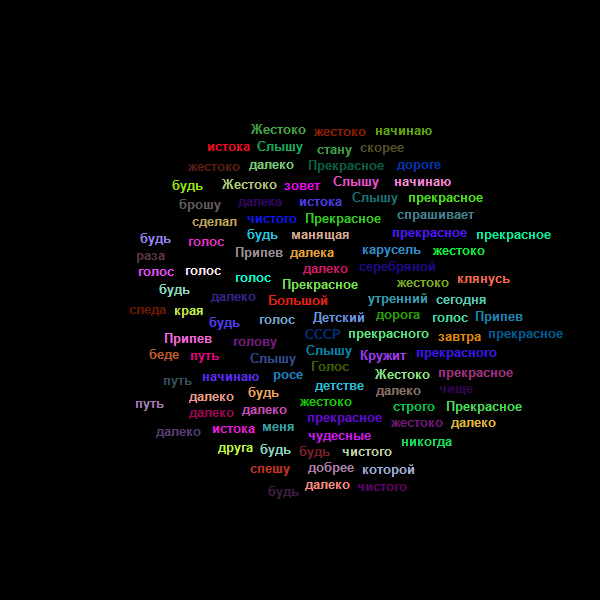
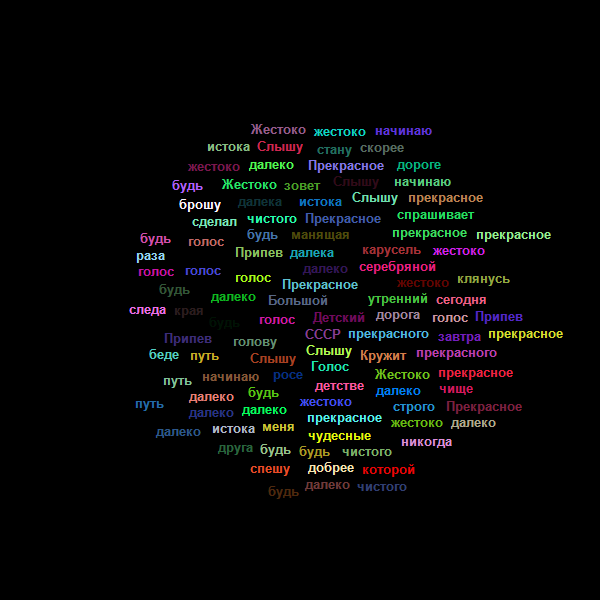
added LowerCaseWordConverter

Changed region(s): [[0.21, 0.21, 0.93, 0.84], [0.21, 0.66, 0.27, 0.69]]

diff --git a/TagsCloudVisualization/Program.cs b/TagsCloudVisualization/Program.cs
@@ -3,7 +3,6 @@ using System.Drawing;
 using System.Drawing.Imaging;
 using Autofac;
 using TagsCloudVisualization.CloudPainters;
-using TagsCloudVisualization.Layouters;
 using TagsCloudVisualization.TextFilters;
 using TagsCloudVisualization.TextPreprocessing;
 using TagsCloudVisualization.TextReaders;
@@ -16,39 +15,25 @@ namespace TagsCloudVisualization
     {
         public static void Main()
         {
-            var imageOptions = new VisualisingOptions(new Font("Arial", 10, FontStyle.Bold), 
+            var imageOptions = new VisualisingOptions(new Font("Arial", 12, FontStyle.Bold), 
                 new Size(600, 600), Color.Black, Color.Pink);
             var textName = "2.txt";
-            var imageName = "00";
-
-            var container = GetContainer(imageOptions.Font, imageOptions.ImageSize, imageOptions.BackgroundColor,
-                imageOptions.TextColor);
-            var creator = container.Resolve<CloudCreator>();
-            var cloud = creator.GetCloud(imageOptions.BackgroundColor, imageOptions.TextColor, imageOptions.Font,
-                imageOptions.ImageSize, textName);
+            var imageName = "01";
+            
+            var cloudCreator = GetContainer().Resolve<CloudCreator>();
+            var cloud = cloudCreator.GetCloud(imageOptions, textName);
             ImageSaver.SaveImageToDefaultDirectory(imageName, cloud, ImageFormat.Png);
         }
 
-        private static IContainer GetContainer(Font font, Size imageSize,
-            Color backgroundColor, Color textColor)
+        private static IContainer GetContainer()
         {
-            var center = new Point(imageSize.Width / 2, imageSize.Height / 2);
-
             var builder = new ContainerBuilder();
-            builder.Register(f => font).As<Font>();
-            builder.Register(s => imageSize).As<Size>();
-            builder.RegisterType<Spiral>().AsSelf().WithParameter("center", center);
             builder.RegisterType<MultiColorCloudPainter>().As<CloudPainter>();
             builder.RegisterType<ITextFilter>().AsImplementedInterfaces();
             builder.RegisterType<LowerCaseWordConverter>().AsSelf();
             builder.Register(f => new List<IWordConverter> {new LowerCaseWordConverter()});
             builder.Register(f => new List<ITextFilter> {new ShortWordsFilter(3)})
                 .As<IEnumerable<ITextFilter>>();
-            builder.Register(p => center).As<Point>();
-            builder.RegisterType<CircularCloudLayouter>().As<ILayouter>();
-            builder.RegisterType<VisualisingOptions>().AsSelf().WithParameter("backgroundColor", backgroundColor)
-                .WithParameter("textColor", textColor);
-            builder.RegisterType<TagCloudVisualizer>().AsSelf();
             builder.RegisterType<TxtReader>().As<ITextReader>();
             builder.RegisterType<WordsProvider>().AsSelf();
             builder.RegisterType<WordPreprocessor>().AsSelf();

diff --git a/TagsCloudVisualization/CloudCreator.cs b/TagsCloudVisualization/CloudCreator.cs
@@ -18,27 +18,26 @@ namespace TagsCloudVisualization
         private readonly ITextReader textReader;
         private readonly WordsProvider wordsProvider;
         private readonly WordPreprocessor wordPreprocessor;
-        private readonly TagCloudVisualizer cloudVisualizer;
         private readonly CloudPainter cloudPainter;
-        private readonly ILayouter cloudLayouter;
-            
+
         public CloudCreator(ITextReader textReader, WordsProvider wordsProvider, WordPreprocessor wordPreprocessor,
-            TagCloudVisualizer cloudVisualizer, CloudPainter cloudPainter, ILayouter cloudLayouter)
+            CloudPainter cloudPainter)
         {
             this.textReader = textReader;
             this.wordsProvider = wordsProvider;
             this.wordPreprocessor = wordPreprocessor;
-            this.cloudVisualizer = cloudVisualizer;
             this.cloudPainter = cloudPainter;
-            this.cloudLayouter = cloudLayouter;
         }
-        
-        public Bitmap GetCloud(Color backgroundColor, Color textColor, Font font, Size imageSize, string textName)
+
+        public Bitmap GetCloud(VisualisingOptions visualisingOptions, string textName)
         {
+            var cloudVisualizer = new TagCloudVisualizer(visualisingOptions);
+            var center = new Point(visualisingOptions.ImageSize.Width / 2, visualisingOptions.ImageSize.Height / 2);
+            var layouter = new CircularCloudLayouter(new Spiral(center));
             var text = textReader.ReadText(PathFinder.GetTextsPath(textName));
             var words = wordsProvider.GetWords(text);
             var preprocessedWords = wordPreprocessor.GetPreprocessedWords(words);
-            var image = cloudVisualizer.GetVisualization(preprocessedWords, cloudLayouter, cloudPainter);
+            var image = cloudVisualizer.GetVisualization(preprocessedWords, layouter, cloudPainter);
             return image;
         }
     }

diff --git a/TagsCloudVisualization/WordConverters/LowerCaseWordConverter.cs b/TagsCloudVisualization/WordConverters/LowerCaseWordConverter.cs
@@ -1,0 +1,13 @@
+using System.Collections.Generic;
+using System.Linq;
+
+namespace TagsCloudVisualization.WordConverters
+{
+    public class LowerCaseWordConverter : IWordConverter
+    {
+        public IEnumerable<string> ConvertWords(IEnumerable<string> words)
+        {
+            return words.Select(word => word.ToLower());
+        }
+    }
+}
